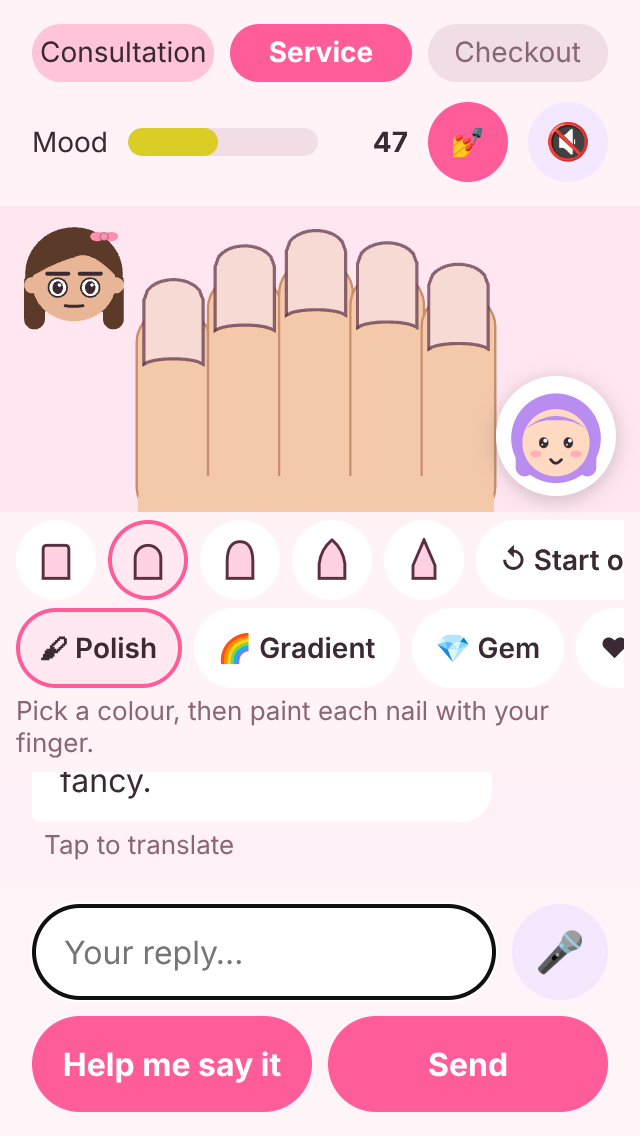
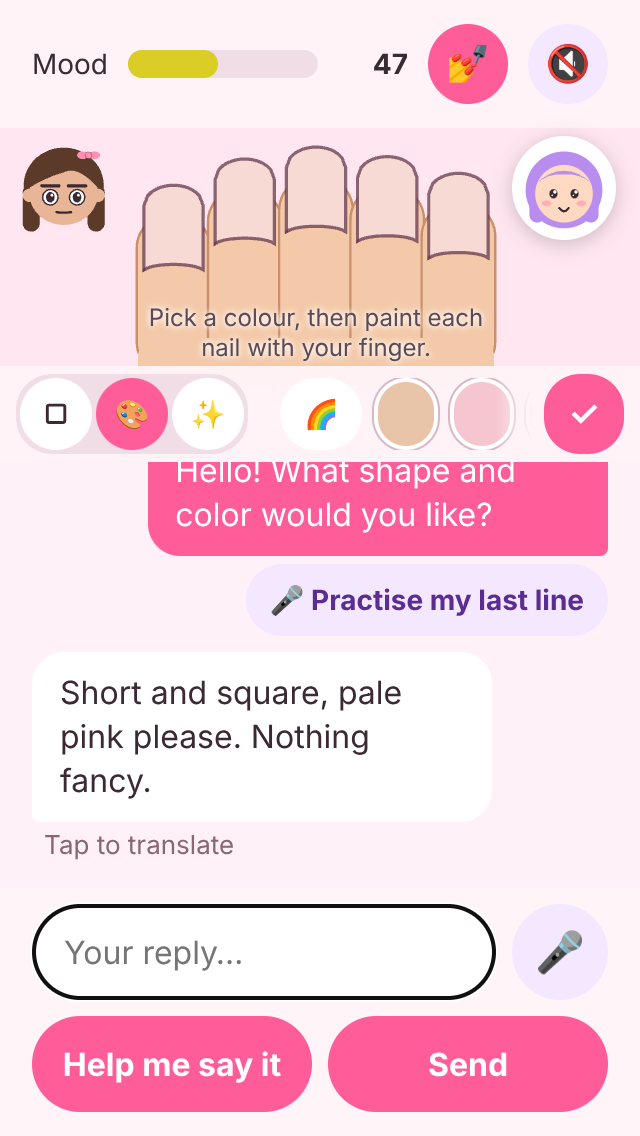
Story 005 fixes: chat stays usable at 320 px, Mai off the nails, scroll hint
Overseer review of 9205c77 (320 px evidence):
1. Chat space: the two tool rows are now one row (Shape / Colour / Art tabs,
   icons only on narrow phones, the active tab's options, Done); the hint sits
   inside the hand area; the hand area is ~20% smaller; the phase pills hide
   while the station is open (the mood bar stays). Measured at 320x568 with the
   station open: chat area 213 px (was ~100), the latest two messages fully
   visible in en and vi (vi with the translation under the client line).
2. Mai's bubble moves to the top-right corner of the hand area while the
   station is open (smaller, 52 px); the hand layout keeps that corner clear.
   Checked: the bubble is inside the kept-clear corner.
3. The options strip fades at both edges, so it's clear it scrolls; the tabs
   remove most of the overflow.
- The open Mai panel already shows the full figure (crop 'full'); only the
  bubble asks for the bust.
- Evidence re-shot: production/qa/evidence/story-005-nail-art-station/.
- npm test 223/223; build OK.

Claude-Session: https://claude.ai/code/session_01Fx5cxFjSfz8L37QZFocT7H

diff --git a/src/game/ui/nail-station-panel.ts b/src/game/ui/nail-station-panel.ts
@@ -68,12 +68,16 @@ export function createNailStation(options: NailStationOptions): NailStation {
   let done = false;
   const lang = getLanguage();
 
+  // One compact row (overseer, 320 px review): Shape | Colour | Art tabs, the active tab's options (scrolling, with
+  // faded edges so it's clear there is more), and Done. The hint/status sits inside the hand area, not under it.
   const toolbar = el('div', 'station-tools hidden');
-  const rowA = el('div', 'station-row');
-  const rowB = el('div', 'station-row');
+  const tabs = el('div', 'station-tabs');
+  tabs.setAttribute('role', 'tablist');
+  const optionsRow = el('div', 'station-row');
   const status = el('p', 'station-status', t('station.hint'));
   status.setAttribute('aria-live', 'polite');
-  toolbar.append(rowA, rowB, status);
+  type Tab = 'shape' | 'colour' | 'art';
+  let tab: Tab = 'colour';
 
   const button = (label: string, className: string, onClick: () => void, aria?: string): HTMLButtonElement => {
     const node = el('button', `station-button ${className}`);
@@ -99,17 +103,18 @@ export function createNailStation(options: NailStationOptions): NailStation {
   );
   const doneButton = button(t('station.done'), 'station-done', () => {
     if (done) return;
+    if (done) return;
     const result = finish();
     status.textContent = t('station.doneMessage', { score: result.score });
     emitSound(result.moodDelta >= 0 ? 'moodUp' : 'moodDown');
     options.onDone(design, result);
   });
-  const resetButton = button(t('station.reset'), 'station-reset', () => setDesign(emptyDesign(design.shape)));
-  rowA.append(...shapeButtons, resetButton, doneButton);
+  doneButton.setAttribute('aria-label', t('station.doneLabel'));
+  const resetButton = button(t('station.reset'), 'station-reset', () => setDesign(emptyDesign(design.shape)), t('station.resetLabel'));
 
   const toolButtons: Record<StationTool, HTMLButtonElement> = {
     polish: button(t('station.polish'), 'station-tool', () => selectTool('polish')),
-    gradient: button(t('station.gradient'), 'station-tool', () => selectTool('gradient')),
+    gradient: button(`<span aria-hidden="true">🌈</span><span class="tab-text">${t('station.gradient').replace('🌈', '').trim()}</span>`, 'station-tool', () => selectTool('gradient'), t('station.gradient').replace('🌈', '').trim()),
     gem: button(t('station.gem'), 'station-tool', () => selectTool('gem')),
     sticker: button(t(`station.sticker.${sticker}`), 'station-tool', () => {
       // Tapping Sticker again cycles heart → star → flower.
@@ -133,15 +138,36 @@ export function createNailStation(options: NailStationOptions): NailStation {
     swatch.style.background = color.hex;
     return swatch;
   });
-  rowB.append(...Object.values(toolButtons), ...swatches);
+  const tabButtons: Record<Tab, HTMLButtonElement> = {
+    // Icon + word; narrow phones show the icon only (the word stays as the accessible name).
+    shape: button(`<span class="tab-icon" aria-hidden="true">▢</span><span class="tab-text">${t('station.tab.shape')}</span>`, 'station-tab', () => selectTab('shape'), t('station.tab.shape')),
+    colour: button(`<span class="tab-icon" aria-hidden="true">🎨</span><span class="tab-text">${t('station.tab.colour')}</span>`, 'station-tab', () => selectTab('colour'), t('station.tab.colour')),
+    art: button(`<span class="tab-icon" aria-hidden="true">✨</span><span class="tab-text">${t('station.tab.art')}</span>`, 'station-tab', () => selectTab('art'), t('station.tab.art')),
+  };
+  Object.values(tabButtons).forEach((node) => node.setAttribute('role', 'tab'));
+  tabs.append(...Object.values(tabButtons));
+  toolbar.append(tabs, optionsRow, doneButton);
+
+  function selectTab(next: Tab): void {
+    tab = next;
+    if (tab === 'shape') optionsRow.replaceChildren(...shapeButtons, resetButton);
+    else if (tab === 'colour') optionsRow.replaceChildren(toolButtons.gradient, ...swatches);
+    else optionsRow.replaceChildren(toolButtons.gem, toolButtons.sticker);
+    if (tab === 'colour' && tool !== 'gradient') tool = 'polish';
+    if (tab === 'art' && tool !== 'gem' && tool !== 'sticker') tool = 'gem';
+    optionsRow.scrollLeft = 0;
+    refresh();
+  }
 
   function selectTool(next: StationTool): void {
-    tool = next;
-    status.textContent = next === 'gradient' ? t('station.gradientOn') : t('station.hint');
+    // Gradient toggles back to plain polish when tapped again.
+    tool = next === 'gradient' && tool === 'gradient' ? 'polish' : next;
+    status.textContent = tool === 'gradient' ? t('station.gradientOn') : t('station.hint');
     refresh();
   }
 
   function refresh(): void {
+    (Object.keys(tabButtons) as Tab[]).forEach((key) => tabButtons[key].setAttribute('aria-selected', String(key === tab)));
     shapeButtons.forEach((node, index) => node.setAttribute('aria-pressed', String(SHAPES[index] === design.shape)));
     (Object.keys(toolButtons) as StationTool[]).forEach((key) => toolButtons[key].setAttribute('aria-pressed', String(key === tool)));
     swatches.forEach((node, index) => {
@@ -155,7 +181,7 @@ export function createNailStation(options: NailStationOptions): NailStation {
 
   // Touch layer: forwards pointer positions to the station (relative to the zone).
   const touch = el('div', 'station-touch hidden');
-  touch.setAttribute('aria-hidden', 'true');
+  touch.append(status);
   let drawing = false;
   const forward = (event: PointerEvent, phase: 'down' | 'move'): void => {
     if (done) return;
@@ -197,7 +223,7 @@ export function createNailStation(options: NailStationOptions): NailStation {
     return matchDesign(design, options.request);
   }
 
-  refresh();
+  selectTab('colour');
   return {
     toolbar,
     touch,

diff --git a/src/game/ui/nail-station.css b/src/game/ui/nail-station.css
@@ -1,16 +1,29 @@
 /* Story 005: the nail station toolbar and touch layer (over the portrait zone while open). */
-.chat-panel.station-open .portrait-zone { flex-basis: clamp(140px, 27vh, 230px); }
+.chat-panel.station-open .portrait-zone { flex-basis: clamp(112px, 21vh, 184px); }
 .station-touch { position: absolute; left: 0; right: 0; z-index: 1; touch-action: none; }
-.station-tools { display: flex; flex-direction: column; gap: 4px; padding: 4px 8px 6px; background: rgba(255, 244, 248, 0.96); }
-.station-row { display: flex; gap: 6px; overflow-x: auto; scrollbar-width: none; }
+/* The hint/status: small, inside the hand area, never blocking touch. */
+.station-status { position: absolute; left: 70px; right: 74px; bottom: 2px; margin: 0; font-size: 12px; line-height: 1.2; color: #5b4a53; text-align: center; pointer-events: none; text-shadow: 0 0 3px #fff, 0 0 3px #fff; }
+/* One row: tabs | options (scroll, faded edges) | Done. */
+.station-tools { display: flex; align-items: center; gap: 6px; padding: 4px 8px; background: rgba(255, 244, 248, 0.96); }
+.station-tabs { display: flex; flex: none; gap: 2px; padding: 2px; border-radius: 18px; background: #f1dde6; }
+.station-tab { min-width: 0; min-height: 36px; padding: 0 8px; font-size: 13px; }
+.station-tab[aria-selected='true'] { background: #ff5c9a; color: #fff; }
+.station-row { display: flex; flex: 1 1 auto; min-width: 0; gap: 6px; overflow-x: auto; scrollbar-width: none; padding: 0 10px; -webkit-mask-image: linear-gradient(to right, transparent 0, #000 10px, #000 calc(100% - 18px), transparent 100%); mask-image: linear-gradient(to right, transparent 0, #000 10px, #000 calc(100% - 18px), transparent 100%); }
 .station-row::-webkit-scrollbar { display: none; }
-.station-button { flex: none; min-width: 40px; min-height: 40px; padding: 0 10px; border: 2px solid transparent; border-radius: 20px; background: #fff; color: #3b2a33; font: 600 14px system-ui, sans-serif; white-space: nowrap; display: inline-flex; align-items: center; justify-content: center; }
+.station-button { flex: none; min-width: 36px; min-height: 36px; padding: 0 10px; border: 2px solid transparent; border-radius: 18px; background: #fff; color: #3b2a33; font: 600 14px system-ui, sans-serif; white-space: nowrap; display: inline-flex; align-items: center; justify-content: center; }
 .station-button[aria-pressed='true'] { border-color: #ff5c9a; background: #ffe8f1; }
 .station-button:disabled { opacity: 0.5; }
-.station-shape { width: 40px; padding: 0; }
-.station-done { background: #ff5c9a; color: #fff; }
-.station-swatch { width: 36px; min-width: 36px; min-height: 36px; padding: 0; border: 2px solid #fff; box-shadow: 0 0 0 1px #d9b8c6; }
+.station-shape { width: 36px; padding: 0; }
+.station-done { flex: none; width: 40px; min-height: 40px; padding: 0; background: #ff5c9a; color: #fff; font-size: 18px; }
+.station-swatch { width: 32px; min-width: 32px; min-height: 32px; padding: 0; border: 2px solid #fff; box-shadow: 0 0 0 1px #d9b8c6; }
 .station-swatch[aria-pressed='true'] { border-color: #3b2a33; box-shadow: 0 0 0 2px #ff5c9a; }
-.station-status { margin: 0; font-size: 13px; color: #8a6575; min-height: 1.2em; }
-.station-toggle { flex: none; width: 40px; min-height: 40px; padding: 0; font-size: 18px; border: 0; border-radius: 20px; background: #f3e8ff; color: #5b2d91; font: 700 14px system-ui, sans-serif; }
+.station-toggle { flex: none; width: 40px; min-height: 40px; padding: 0; font-size: 18px; border: 0; border-radius: 20px; background: #f3e8ff; color: #5b2d91; font-weight: 700; }
 .station-toggle[aria-pressed='true'] { background: #ff5c9a; color: #fff; }
+/* While the station is open the phase is obviously "service": the phase pills give their row to the chat (the mood bar stays). */
+.chat-panel.station-open .chat-phases { display: none; }
+.station-tab .tab-icon { margin-right: 4px; }
+@media (max-width: 400px) {
+  .station-tools .tab-text { display: none; }
+  .station-tab .tab-icon { margin-right: 0; }
+  .station-tab { width: 36px; padding: 0; }
+}

diff --git a/src/game/ui/mai-bubble.css b/src/game/ui/mai-bubble.css
@@ -1,7 +1,10 @@
 /* Laid over the fixed top strip (header + portraits). Mai's bubble sits in a bottom corner of the portrait strip. */
 .mai-layer { position: absolute; inset: 0; pointer-events: none; }
 .mai-layer > * { pointer-events: auto; }
-.mai-bubble { position: absolute; bottom: var(--mai-bottom, 8px); right: 12px; width: 60px; height: 60px; padding: 2px; border: 0; border-radius: 50%; background: #fff; box-shadow: 0 2px 10px rgba(59, 42, 51, 0.25); touch-action: none; cursor: pointer; }
+.mai-layer.over-station .mai-bubble { top: var(--mai-top, 8px); bottom: auto; width: 52px; height: 52px; }
+.mai-layer.over-station .mai-bubble .mascot { width: 48px !important; height: 48px !important; }
+.mai-layer.over-station .mai-bubble svg { width: 48px; height: 48px; }
+.mai-bubble { position: absolute; bottom: 8px; right: 12px; width: 60px; height: 60px; padding: 2px; border: 0; border-radius: 50%; background: #fff; box-shadow: 0 2px 10px rgba(59, 42, 51, 0.25); touch-action: none; cursor: pointer; }
 .mai-layer[data-side='left'] .mai-bubble { right: auto; left: 12px; }
 .mai-bubble .mascot { display: block; border-radius: 50%; overflow: hidden; }
 .mai-badge { position: absolute; top: -4px; right: -4px; min-width: 22px; height: 22px; padding: 0 6px; box-sizing: border-box; border-radius: 11px; background: #ff5c9a; color: #fff; font: 700 13px/22px system-ui, sans-serif; text-align: center; box-shadow: 0 0 0 2px #fff; }

diff --git a/src/game/ui/chat-panel.ts b/src/game/ui/chat-panel.ts
@@ -203,7 +203,11 @@ export function createChatPanel(
   /** While the station is open, Mai's bubble sits above its toolbar (in the station's corner), never over the tools. */
   function liftMai(): void {
     if (!station || !mai) return;
-    mai.element.style.setProperty('--mai-bottom', stationOpen ? `${station.toolbar.offsetHeight + 8}px` : '8px');
+    // Top-right corner of the hand area (the hand layout keeps that corner clear), so she never covers a nail or the tools.
+    if (stationOpen) {
+      mai.element.style.setProperty('--mai-top', `${zone.element.offsetTop + 4}px`);
+      mai.element.classList.add('over-station');
+    } else mai.element.classList.remove('over-station');
   }
   stationToggle.addEventListener('click', () => setStationOpen(!stationOpen));
   if (station) {

diff --git a/production/qa/evidence/story-005-nail-art-station/README.md b/production/qa/evidence/story-005-nail-art-station/README.md
@@ -5,7 +5,7 @@ fancy" and the service starts.
 
 | File | Shows |
 |------|-------|
-| `*-320-01-station-open` | The service starts: the station opens over the portrait strip (Dana shrinks to a small face, so her mood stays readable), toolbar: 5 shapes, Start over, Done; Polish, Gradient, Gem, Sticker, 10 colours |
+| `*-320-01-station-open` | The service starts: the station opens over the portrait strip (Dana shrinks to a small face, so her mood stays readable). One toolbar row: Shape ▢ / Colour 🎨 / Art ✨ tabs (icons on narrow phones), the tab's options (faded edges show they scroll), ✓ Done. Mai sits in the top-right corner of the hand area |
 | `*-320-02-painting-and-chat` | Square, pale pink, painted by dragging across the nails; a chat line sent and answered while the station is open |
 | `*-320-03-done` | Done: "Nails done! They match her request: 100%"; mood 49 → 59; tools locked; Mai's bubble above the toolbar |
 
@@ -22,3 +22,9 @@ the station open and **no input at all**, so a frame-rate number here says nothi
 itself costs was measured: 0.10–0.15 ms average and 0.5 ms at the 95th percentile per paint move (492 moves), against
 a 16.7 ms frame budget at 60 fps. It redraws only the nail being painted (at most 60 small rects). **Real 60 fps needs
 the owner's phone playtest** (paint all five nails quickly and watch for stutter).
+
+**Re-shot after the overseer's 320 px review (2026-11-10):** one toolbar row instead of two, the hand area ~20% smaller,
+the hint inside the hand area, the phase pills hidden while the station is open (the mood bar stays), Mai's bubble in
+the hand area's top-right corner (the hand layout keeps it clear). Measured at 320×568 with the station open: the chat
+area is 213 px (was ~100) and the latest two messages are fully visible in en and vi (with Vietnamese under the client
+line); Mai's bubble is inside the kept-clear corner, off the nails.
